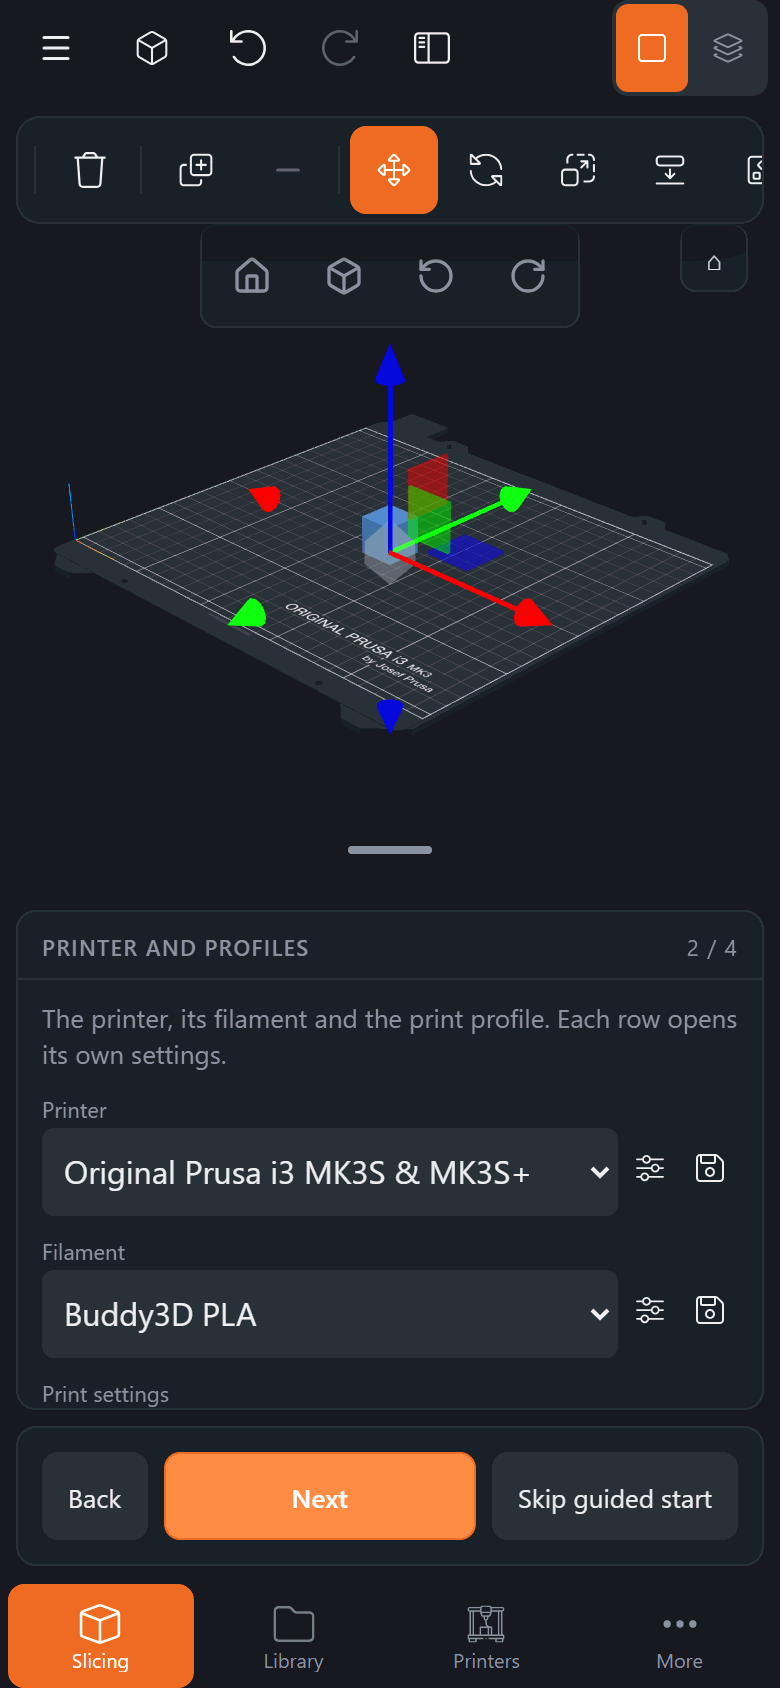
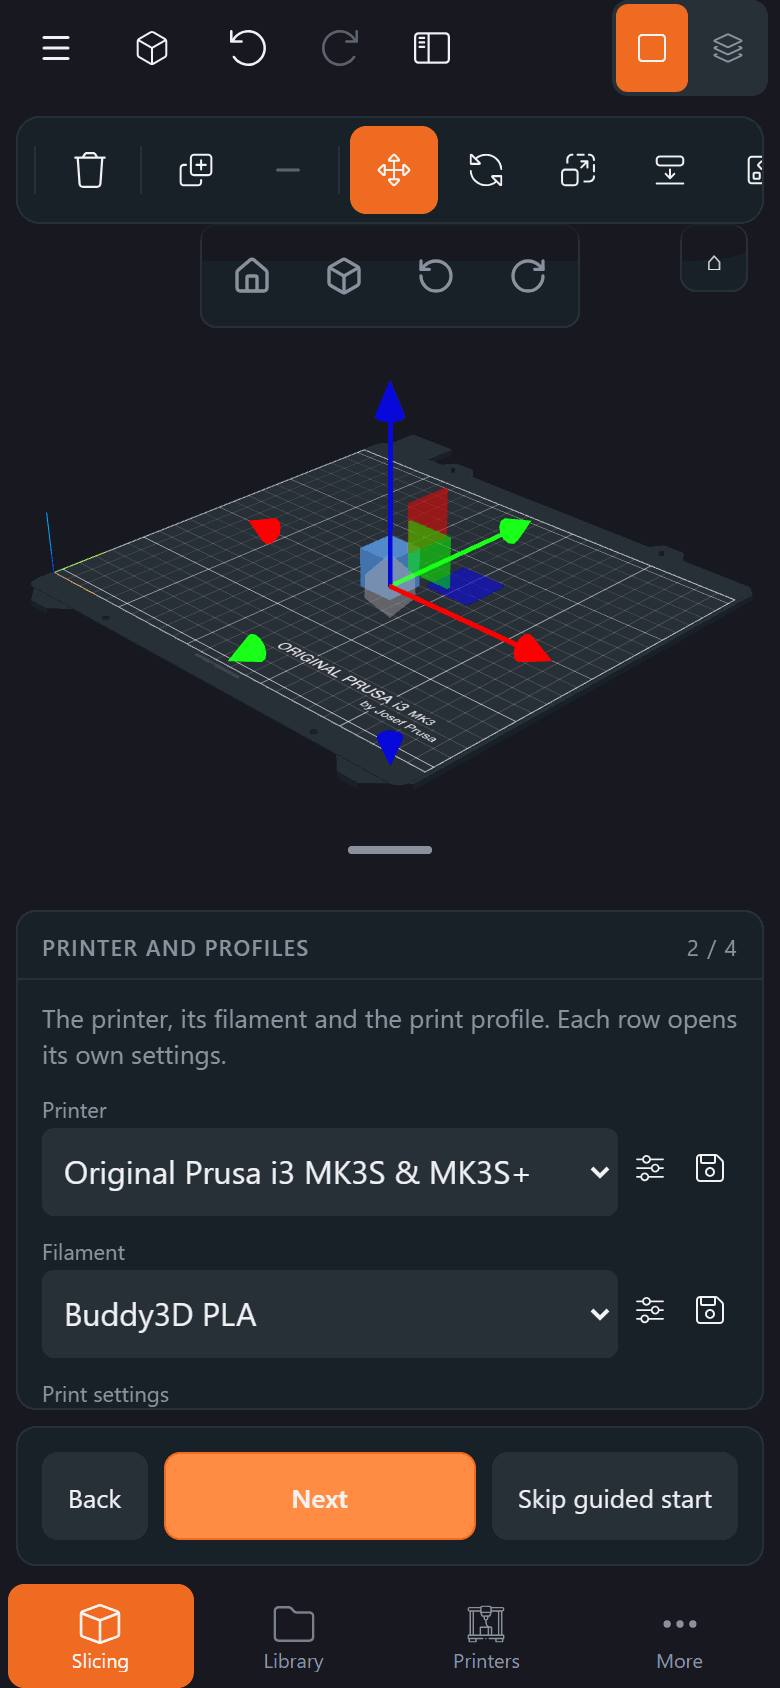
docs: the T-103 changes, their images and the CHANGELOG (T-103)
Regenerated preview, phone-preview-peek, phone-preview-hidden and the
guided steps; dropped the review evidence phone-preview-peek-before.

Changed region(s): [[0.0923, 0.1848, 0.9231, 0.4621]]

diff --git a/docs/features.md b/docs/features.md
@@ -160,8 +160,9 @@ plate hides the underside; key 2 still reaches it there and in the Plater).
 On a phone the 3D view owns the space above the sheet: whenever a model arrives, a guided step
 changes or the sheet settles, the plate and every object are framed completely inside the band
 between the top rows and the sheet's top edge. Only a camera moved by hand keeps its place; **Home**
-gives the framing back. A first import – from the device, the library or the drop zone – lands
-centred on the plate.
+gives the framing back. In the Preview the band shows the plate and the visible toolpaths together,
+so the sliced part stays in view at every sheet height and after **Slice again**. A first import –
+from the device, the library or the drop zone – lands centred on the plate.
 
 **A print from the phone's view.** In the free layout the first file of the flow – picked in the Library, dropped, or
 chosen with the plater's own **Choose a model…** or **From library** button – folds the sheet to

diff --git a/CHANGELOG.md b/CHANGELOG.md
@@ -9,6 +9,12 @@ rc.3 to rc.5 and of the `Unreleased` of that time are kept verbatim in
 
 ### Fixed
 
+- **The bed keeps its surface after slicing (T-103):** the check for the ribbon shader's texture
+  format left three.js's texture unit pointing at an empty texture, so from the first slice on the
+  bed's vendor texture and grid were sampled black; the check restores the previous binding.
+- **Phone Preview framing (T-103):** the automatic framing shows the plate and the visible toolpaths
+  in the room above the sheet at every sheet height and in the guided start's first step, and Home
+  frames them again after a slice.
 - **Phone retest follow-ups (T-101):** the 3D view frames the plate and model into the room above the
   sheet (instead of behind it), every turn leaves a level horizon, a first import lands centred, and
   the Plater is drawn again after a slice instead of turning black.
